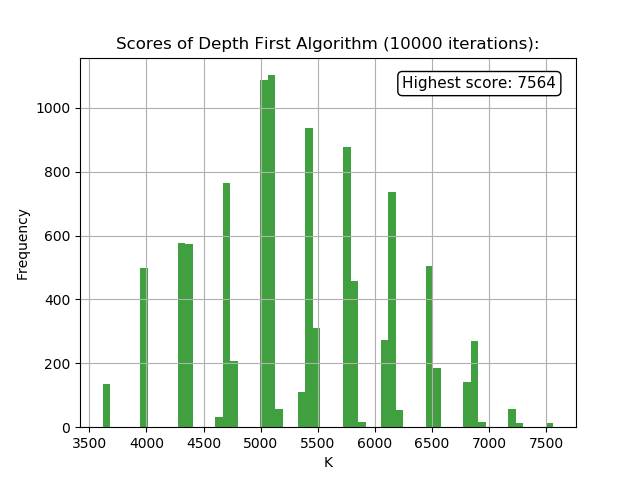
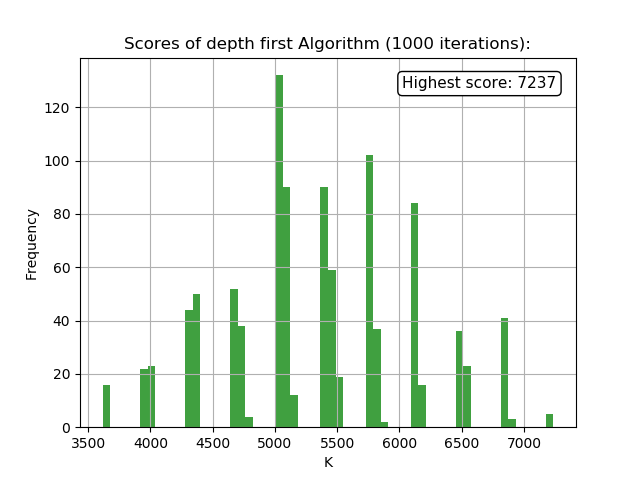
ff verder met experiment

diff --git a/experiment.py b/experiment.py
@@ -2,9 +2,6 @@ import sys
 sys.path.append('code')
 sys.path.append('code/visualisation')
 
-import subprocess
-import time
-
 from code.helpers import read_csv_file, load_algorithms_dict
 
 from code.classes.algorithm import Algorithm
@@ -43,15 +40,6 @@ if __name__ == "__main__":
     # Laat altijd een histogram zien
     histogram = 'y'
 
-    # Laat de experimenten voor een vaste hoeveelheid tijd runnen
-    start = time.time()
-    N = 0
-
-    while time.time() - start < 3600:
-        print(f"run: {N}")
-        subprocess.call(["timeout", "60", "python3", "random_algorithm.py"])
-        N += 1
-
     # Run het experiment dat de gebruiker aangeeft
     if sys.argv[1].lower() == 'exp1':
         alg_object1 = Algorithm('bizzey', stations_data, connections_data, max_trajecten_holland, max_tijd_traject_holland, alle_connecties_holland)
@@ -60,40 +48,24 @@ if __name__ == "__main__":
         alg_object2.create_station_objects()
 
         # Definieer de scores voor de twee cases van experiment 1
-        results1 = alg_object1.run_algorithm_N_times(N, alg_object1, regio)
-        best_state1: object = results1[0]
-        scores_list1 = results1[1]
+        scores_list1 = alg_object1.run_algorithm_for_60_sec(alg_object1)
         high_score = max(scores_list1)
         print(f"Highest score: {high_score}")
 
-        results2 = alg_object2.run_algorithm_N_times(N, alg_object2, regio)
-        best_state2: object = results2[0]
-        scores_list2 = results2[1]
+        scores_list2 = alg_object2.run_algorithm_for_60_sec(alg_object2)
         high_score = max(scores_list2)
         print(f"Highest score: {high_score}")
 
         # Plot een histogram
         if histogram == 'y':
-            make_histogram(scores_list1, N, 'br')
-            make_histogram(scores_list2, N, 'qr')
+            make_histogram(scores_list1, len(scores_list1), 'br')
+            make_histogram(scores_list2, len(scores_list2), 'qr')
         else:
             pass
 
     elif sys.argv[1].lower() == 'exp2':
-        alg_object = Algorithm('Simulated Annealing', stations_data, connections_data)
-
-        # Definieer de scores van experiment 2
-        results = alg_object.run_algorithm_N_times(N, alg_object, regio)
-        best_state1: object = results[0]
-        scores_list = results[1]
-        high_score = max(scores_list)
-        print(f"Highest score: {high_score}")
-
-        # Plot een histogram
-        if histogram == 'y':
-            make_histogram(scores_list, N, 'sa')
-        else:
-            pass
+        alg_object = Algorithm('simulated annealing', stations_data, connections_data, max_trajecten_holland, max_tijd_traject_holland, alle_connecties_holland)
+        alg_object.run_algorithm(alg_object, regio)
 
     else:
         print("Geen experiment met die naam gevonden!")

diff --git a/code/classes/dienstregeling.py b/code/classes/dienstregeling.py
@@ -8,14 +8,17 @@ class Regeling:
 
     Constraint: max 7 trajecten in regio Holland, max 20 op nationaal niveau
     """
-    def __init__(self) -> None:
+    def __init__(self, alle_connecties) -> None:
         self.traject_list = []
         self.traject = Traject('Name')
-        self.max_trajecten: int
+        self.alle_connecties = alle_connecties
 
     # Voeg een traject toe aan de lijst
     def add_traject(self, new_traject) -> None:
         self.traject_list.append(new_traject)
+
+    def __repr__(self):
+        return f"{self.traject}: {self.traject_list}"
 
     # Berekent de kwaliteitsscore van de gehele dienstregeling
     def calculate_score(self):
@@ -34,7 +37,7 @@ class Regeling:
                 unique_connections.add(connection)
 
         # Stel variabelen in
-        p = len(unique_connections) / 28
+        p = len(unique_connections) / self.alle_connecties
         T = traject_counter
         Min = minutes
 

diff --git a/code/classes/algorithm.py b/code/classes/algorithm.py
@@ -59,7 +59,7 @@ class Algorithm:
         elif self.name == 'breadth first':
             return run_breadth_first(algorithm_instance, regio)
         
-        elif self.name == 'simmulated annealing':
+        elif self.name == 'simulated annealing':
             return run_simulated_annealing(algorithm_instance, regio)
         
         elif self.name == 'bizzey':
@@ -79,7 +79,7 @@ class Algorithm:
         self.algorithm_instance = algorithm_instance
         while time.time() - start < 60:
             print(f"run: {n_runs}")
-            score = self.run_algorithm(self.algorithm_instance)
+            score = self.run_algorithm(self.algorithm_instance, 'h')
             n_runs += 1
             scores_list.append(score)
         return scores_list

diff --git a/code/algorithms/hill_climber.py b/code/algorithms/hill_climber.py
@@ -13,11 +13,11 @@ from classes.dienstregeling import Regeling
 def run_hill_climber(algorithm_instance: Regeling, regio) -> int:
     # State = Regeling(algorithm_instance.alle_connecties)
 
-    start_state, K_start = run_greedy(algorithm_instance)
+    start_state, K_start = run_greedy(algorithm_instance, regio)
 
     best_state, K_best = start_state, K_start
     iterations = 100
-    for i in range(iterations):
+    for _ in range(iterations):
         state = run_hill_climb_loop(best_state, algorithm_instance.max_tijd_traject, algorithm_instance.station_objects)
         K = state.calculate_score()
         best_state = state_compare(K, K_best, state, best_state)

diff --git a/code/algorithms/depth_first.py b/code/algorithms/depth_first.py
@@ -17,14 +17,14 @@ Usage: 'python3 depth_first.py holland' or 'python3 depth_first.py nl'
 # Eenmalige run van het Depth First algoritme
 def run_depth_first(algorithm_instance, regio):
 
-    state = Regeling()
+    state = Regeling(algorithm_instance.alle_connecties)
 
     if regio == 'h':
         state.max_trajecten = 7
-        traject.max_tijd = 120
+        # traject.max_tijd = 120
     elif regio == 'nl':
         state.max_trajecten = 20
-        traject.max_tijd = 180
+        # traject.max_tijd = 180
     else:
         raise AssertionError ("Geen valide naam!")
 

diff --git a/code/algorithms/breadth_first.py b/code/algorithms/breadth_first.py
@@ -9,14 +9,14 @@ from classes.dienstregeling import Regeling
     
 def run_breadth_first(algorithm_instance, regio):
 
-    state = Regeling()
+    state = Regeling(algorithm_instance.alle_connecties)
 
     if regio == 'h':
         state.max_trajecten = 7
-        traject.max_tijd = 120
+        # traject.max_tijd = 120
     elif regio == 'nl':
         state.max_trajecten = 20
-        traject.max_tijd = 180
+        # traject.max_tijd = 180
     else:
         raise AssertionError ("Geen valide naam!")
     

diff --git a/code/algorithms/greedy.py b/code/algorithms/greedy.py
@@ -18,7 +18,7 @@ Usage: 'python3 randalg.py holland' or 'python3 randalg.py nl'
 def run_greedy(algorithm_instance, regio):
     
     # Initialiseer een toestand van de dienstregeling
-    state = Regeling()
+    state = Regeling(algorithm_instance.alle_connecties)
 
     # Stel maxima in op basis van de regio
     if regio == 'h':
